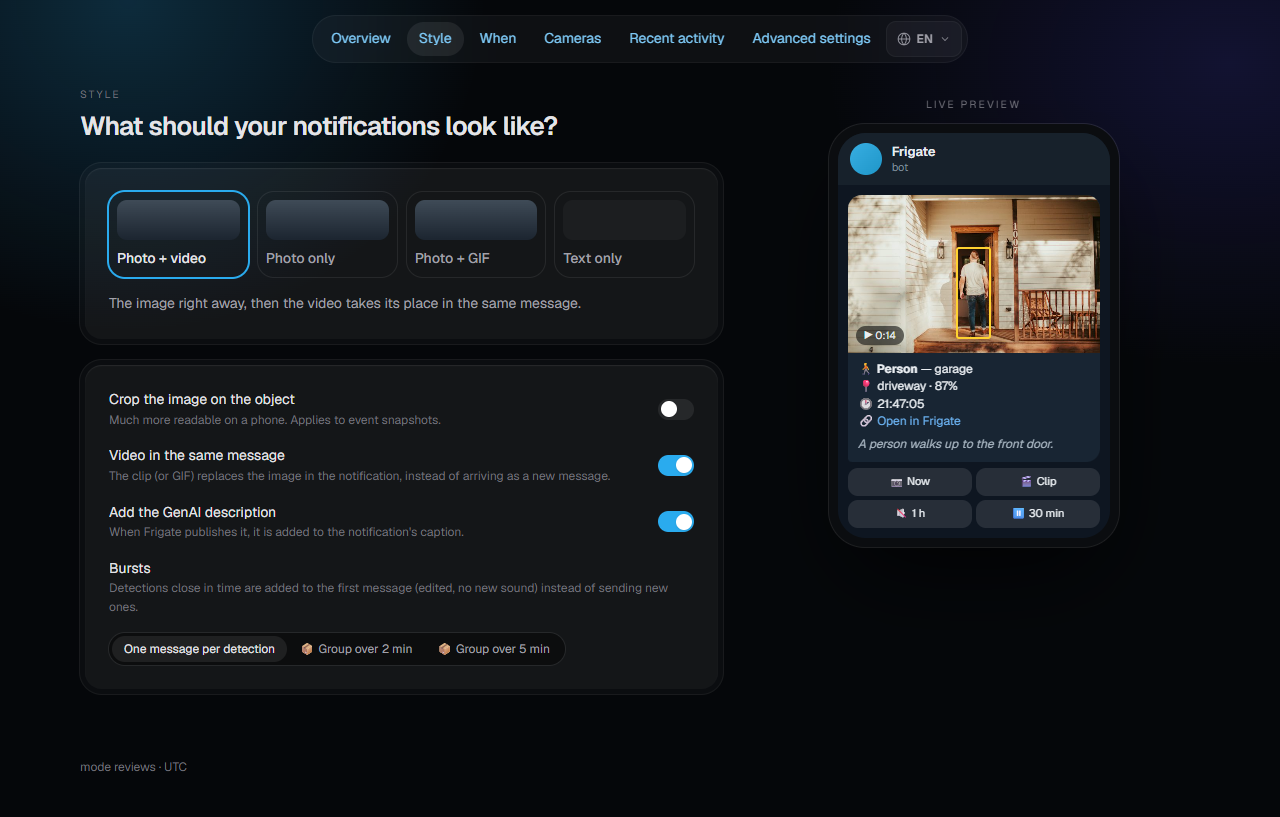
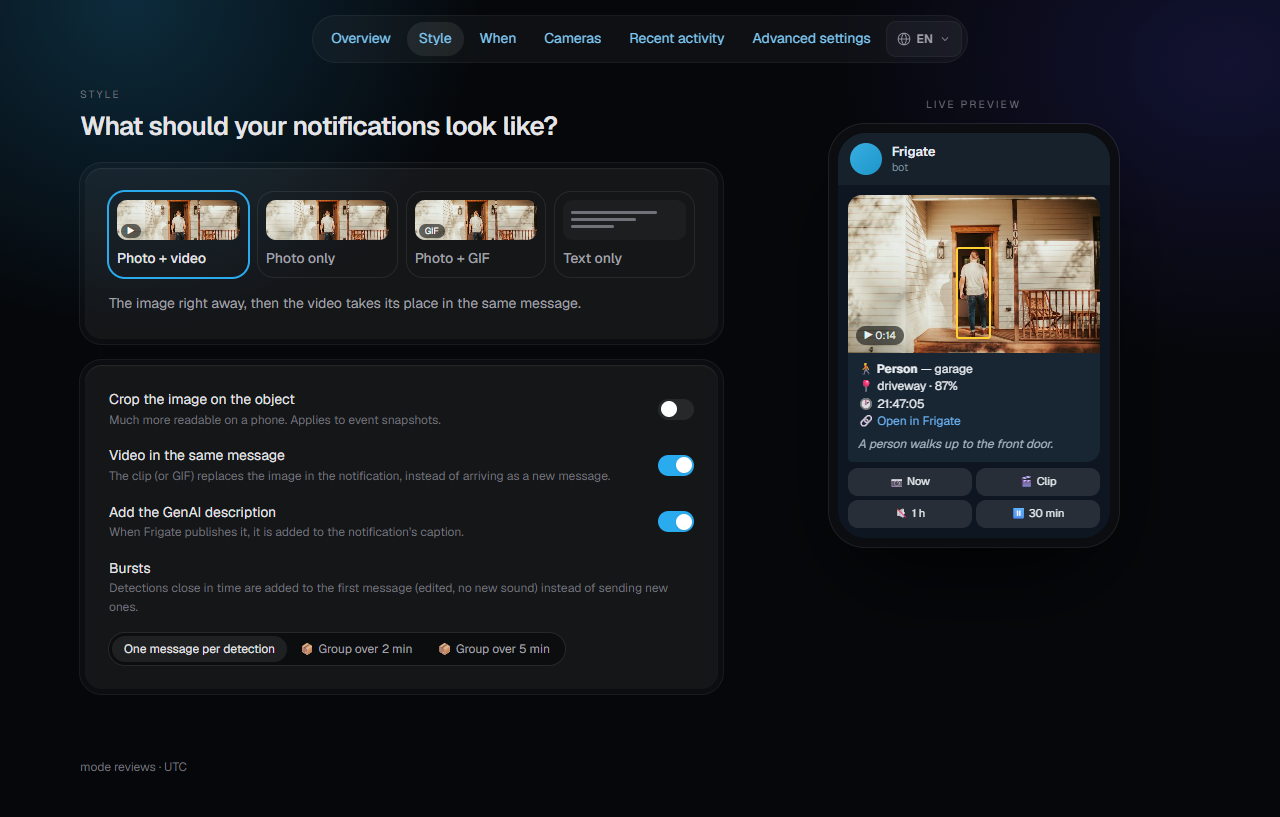
docs: README screenshots of the current interface
Replaces the classic-interface captures of docs/screenshots/ with the ones
the screenshots test makes: overview, style, cameras, activity, phone and
light theme, in English and French.

Changed region(s): [[0.0938, 0.2448, 0.5, 0.306]]

diff --git a/internal/web/screenshots_test.go b/internal/web/screenshots_test.go
@@ -55,12 +55,16 @@ func TestScreenshots(t *testing.T) {
 		return notifier.HistoryEntry{ID: id, At: ago(m), Camera: camera, Label: label, Zones: zones, Score: score, Sent: sent,
 			Reason: reason, Thumb: "/api/events/" + id + "/thumbnail.jpg"}
 	}
+	grouped := func(e notifier.HistoryEntry) notifier.HistoryEntry { e.Grouped = true; return e }
 	history := fakeHistory{entries: []notifier.HistoryEntry{
 		entry("e1", 4, "entree", "person", []string{"porch"}, 0.91, true, ""),
 		entry("e2", 38, "garage", "car", []string{"driveway"}, 0.84, true, ""),
+		entry("e2b", 41, "garage", "car", []string{"driveway"}, 0.8, true, ""),
 		entry("e3", 95, "allee", "person", []string{"path"}, 0.52, false, "score"),
 		entry("e4", 190, "garage", "person", nil, 0.77, false, "zone"),
 		entry("e5", 410, "entree", "person", []string{"porch"}, 0.88, true, ""),
+		grouped(entry("e6", 460, "garage", "car", []string{"driveway"}, 0.8, true, "")),
+		entry("e7", 520, "allee", "person", []string{"path"}, 0.35, false, "score"),
 	}}
 	var sentTimes fakeActivity
 	for h, n := range []int{0, 0, 0, 0, 0, 1, 2, 4, 5, 2, 1, 1, 2, 1, 0, 1, 2, 3, 5, 4, 2, 1, 0, 1} {
@@ -86,7 +90,7 @@ func TestScreenshots(t *testing.T) {
 	ctx, jsErrors := browser(t)
 	ctx, cancel := context.WithTimeout(ctx, 3*time.Minute)
 	defer cancel()
-	shot := func(name string, width, height int, hash, ready string) chromedp.Action[chromedp.Void] {
+	shot := func(name string, width, height int, hash, ready, theme string) chromedp.Action[chromedp.Void] {
 		return func(ctx context.Context, tg *chromedp.Target) (chromedp.Void, error) {
 			var png []byte
 			err := chromedp.Do(ctx,
@@ -94,6 +98,7 @@ func TestScreenshots(t *testing.T) {
 				chromedp.Navigate(ts.URL+"/"+hash),
 				chromedp.WaitVisible(ready),
 				chromedp.Poll[chromedp.Void](`document.fonts.status === "loaded" && [...document.images].every(i => i.complete && i.naturalWidth > 0)`),
+				chromedp.Evaluate[chromedp.Void](`document.documentElement.dataset.theme = "`+theme+`"; 0`),
 				chromedp.Sleep(800*time.Millisecond), // the transitions end
 				into(chromedp.FullScreenshot(100), &png),
 			)
@@ -114,9 +119,12 @@ func TestScreenshots(t *testing.T) {
 		err := chromedp.Do(ctx,
 			chromedp.Navigate(ts.URL+"/"),
 			chromedp.Evaluate[chromedp.Void](`localStorage.setItem("frigate-telegram-enhanced-lang", "`+lang+`"); 0`),
-			shot(lang+"-overview.png", 1280, 770, "", `#last-notification img`),
-			shot(lang+"-style.png", 1280, 790, "#style", `#live-preview img`),
-			shot(lang+"-phone.png", 390, 900, "#style", `#live-preview img`),
+			shot(lang+"-overview.png", 1280, 770, "", `#last-notification img`, "dark"),
+			shot(lang+"-style.png", 1280, 790, "#style", `#live-preview img`, "dark"),
+			shot(lang+"-phone.png", 390, 900, "#style", `#live-preview img`, "dark"),
+			shot(lang+"-light.png", 1280, 790, "#style", `#live-preview img`, "light"),
+			shot(lang+"-cameras.png", 900, 760, "#cameras/garage", `[data-camera="garage"][open]`, "dark"),
+			shot(lang+"-activity.png", 1000, 900, "#activity", `#activity li img`, "dark"),
 		)
 		if err != nil {
 			t.Fatal(err)

diff --git a/README.fr.md b/README.fr.md
@@ -7,7 +7,7 @@ détection, puis le clip vidéo dans le même message, avec des filtres fins, un
 tout régler en quelques clics et un pilotage depuis Telegram.
 
 <p align="center">
-  <img src="docs/screenshots/fr/overview.png" width="820" alt="Interface web : modèles de notification avec aperçu du message Telegram, et questions à choix simples">
+  <img src="docs/images/fr-overview.png" width="820" alt="Aperçu : notifications sur 24 h, connexions et caméras, à côté de la dernière notification telle qu'elle arrive dans Telegram">
 </p>
 
 ## Fonctionnalités
@@ -34,27 +34,21 @@ tout régler en quelques clics et un pilotage depuis Telegram.
 
 ## L'interface web en images
 
-<p align="center">
-  <img src="docs/images/fr-overview.png" width="49%" alt="Aperçu : notifications sur 24 h, connexions et caméras, à côté de la dernière notification">
-  <img src="docs/images/fr-style.png" width="49%" alt="Style : les modèles de notification avec un aperçu en direct du message Telegram">
-</p>
-
-<p align="center">
-  <img src="docs/images/fr-phone.png" width="300" alt="L'écran Style sur un téléphone">
-</p>
-
 **Choisir un modèle de notification.** Quatre modèles — *Photo + vidéo*, *Photo seule*,
 *Photo + GIF*, *Texte seul* — chacun avec un aperçu du message tel qu'il arrivera dans
 Telegram. Un clic, et toutes les caméras l'adoptent. En dessous, quelques questions à
-choix simples : quoi signaler, à quelle fréquence, et que faire la nuit (capture
-ci-dessus).
+choix simples : quoi signaler, à quelle fréquence, et que faire la nuit.
+
+<p align="center">
+  <img src="docs/images/fr-style.png" width="820" alt="Style : quatre modèles de notification avec un aperçu en direct du message Telegram">
+</p>
 
 **Régler une caméra.** Un interrupteur par caméra ; en l'ouvrant, on lui donne un autre
 modèle, d'autres objets ou seulement certaines zones — sinon elle suit les choix
 généraux. *Tester cette caméra* envoie une vraie notification d'exemple.
 
 <p align="center">
-  <img src="docs/screenshots/fr/cameras.png" width="820" alt="Caméra ouverte : modèle, objets et zones, bouton de test">
+  <img src="docs/images/fr-cameras.png" width="700" alt="L'écran Caméras avec une caméra ouverte : modèle, objets et zones">
 </p>
 
 **Comprendre pourquoi une notification n'est pas arrivée.** L'activité récente liste les
@@ -62,15 +56,15 @@ dernières détections, avec leur issue : ✅ envoyée, ou ⛔ ignorée et pourq
 score trop bas, déjà signalé il y a peu…), avec un lien direct vers la caméra à régler.
 
 <p align="center">
-  <img src="docs/screenshots/fr/activity.png" width="820" alt="Activité récente : détections envoyées ou ignorées, avec la raison">
+  <img src="docs/images/fr-activity.png" width="700" alt="Activité récente : détections envoyées, regroupées ou ignorées, avec la raison et une vignette">
 </p>
 
-**Sur téléphone, et en mode sombre.** La page s'adapte à l'écran et suit le thème du système.
+**Sur téléphone, en thème clair ou sombre.** La page s'adapte à l'écran et suit le thème du système (sombre par défaut, clair à droite).
 
 <p align="center">
-  <img src="docs/screenshots/fr/mobile.png" width="260" alt="Interface sur téléphone">
+  <img src="docs/images/fr-phone.png" width="260" alt="L'écran Style sur un téléphone">
   &nbsp;&nbsp;
-  <img src="docs/screenshots/fr/dark.png" width="540" alt="Interface en mode sombre">
+  <img src="docs/images/fr-light.png" width="540" alt="L'écran Style en thème clair">
 </p>
 
 ## Prérequis

diff --git a/README.md b/README.md
@@ -7,7 +7,7 @@ something is detected, then the video clip in the same message — with fine-gra
 interface to set everything up in a few clicks, and control from Telegram itself.
 
 <p align="center">
-  <img src="docs/screenshots/en/overview.png" width="820" alt="Web interface: notification styles with a preview of the Telegram message, and simple multiple-choice questions">
+  <img src="docs/images/en-overview.png" width="820" alt="Overview: notifications over 24 h, connections and cameras, next to the last notification as it arrives in Telegram">
 </p>
 
 ## Features
@@ -34,26 +34,21 @@ interface to set everything up in a few clicks, and control from Telegram itself
 
 ## A tour of the web interface
 
-<p align="center">
-  <img src="docs/images/en-overview.png" width="49%" alt="Overview: notifications over 24 h, connections and cameras, next to the last notification">
-  <img src="docs/images/en-style.png" width="49%" alt="Style: the notification styles with a live preview of the Telegram message">
-</p>
-
-<p align="center">
-  <img src="docs/images/en-phone.png" width="300" alt="The style screen on a phone">
-</p>
-
 **Pick a notification style.** Four styles — *photo + video*, *photo only*,
 *photo + GIF*, *text only* — each with a preview of the message as it will arrive in
 Telegram. One click and every camera uses it. Below, a few multiple-choice questions:
-what to report, how often at most, and what to do at night (screenshot above).
+what to report, how often at most, and what to do at night.
+
+<p align="center">
+  <img src="docs/images/en-style.png" width="820" alt="Style: four notification styles with a live preview of the Telegram message">
+</p>
 
 **Fine-tune a camera.** Each camera has an on/off switch; open it to give it another
 style, other objects or only some zones — otherwise it follows the general choices.
 *Test this camera* sends a real sample notification.
 
 <p align="center">
-  <img src="docs/screenshots/en/cameras.png" width="820" alt="An expanded camera: style, objects and zones, test button">
+  <img src="docs/images/en-cameras.png" width="700" alt="The Cameras screen with one camera expanded: style, objects and zones">
 </p>
 
 **Find out why a notification didn't arrive.** Recent activity lists the latest
@@ -62,15 +57,15 @@ selected zones, score too low, already reported a moment ago…), with a direct 
 the camera to adjust.
 
 <p align="center">
-  <img src="docs/screenshots/en/activity.png" width="820" alt="Recent activity: detections sent or ignored, with the reason">
+  <img src="docs/images/en-activity.png" width="700" alt="Recent activity: detections sent, grouped or ignored, with the reason and a thumbnail">
 </p>
 
-**On a phone, and in dark mode.** The page adapts to the screen and follows the system theme.
+**On a phone, in a light or dark theme.** The page adapts to the screen and follows the system theme (dark by default, light on the right).
 
 <p align="center">
-  <img src="docs/screenshots/en/mobile.png" width="260" alt="The interface on a phone">
+  <img src="docs/images/en-phone.png" width="260" alt="The Style screen on a phone">
   &nbsp;&nbsp;
-  <img src="docs/screenshots/en/dark.png" width="540" alt="The interface in dark mode">
+  <img src="docs/images/en-light.png" width="540" alt="The Style screen in the light theme">
 </p>
 
 ## Requirements
